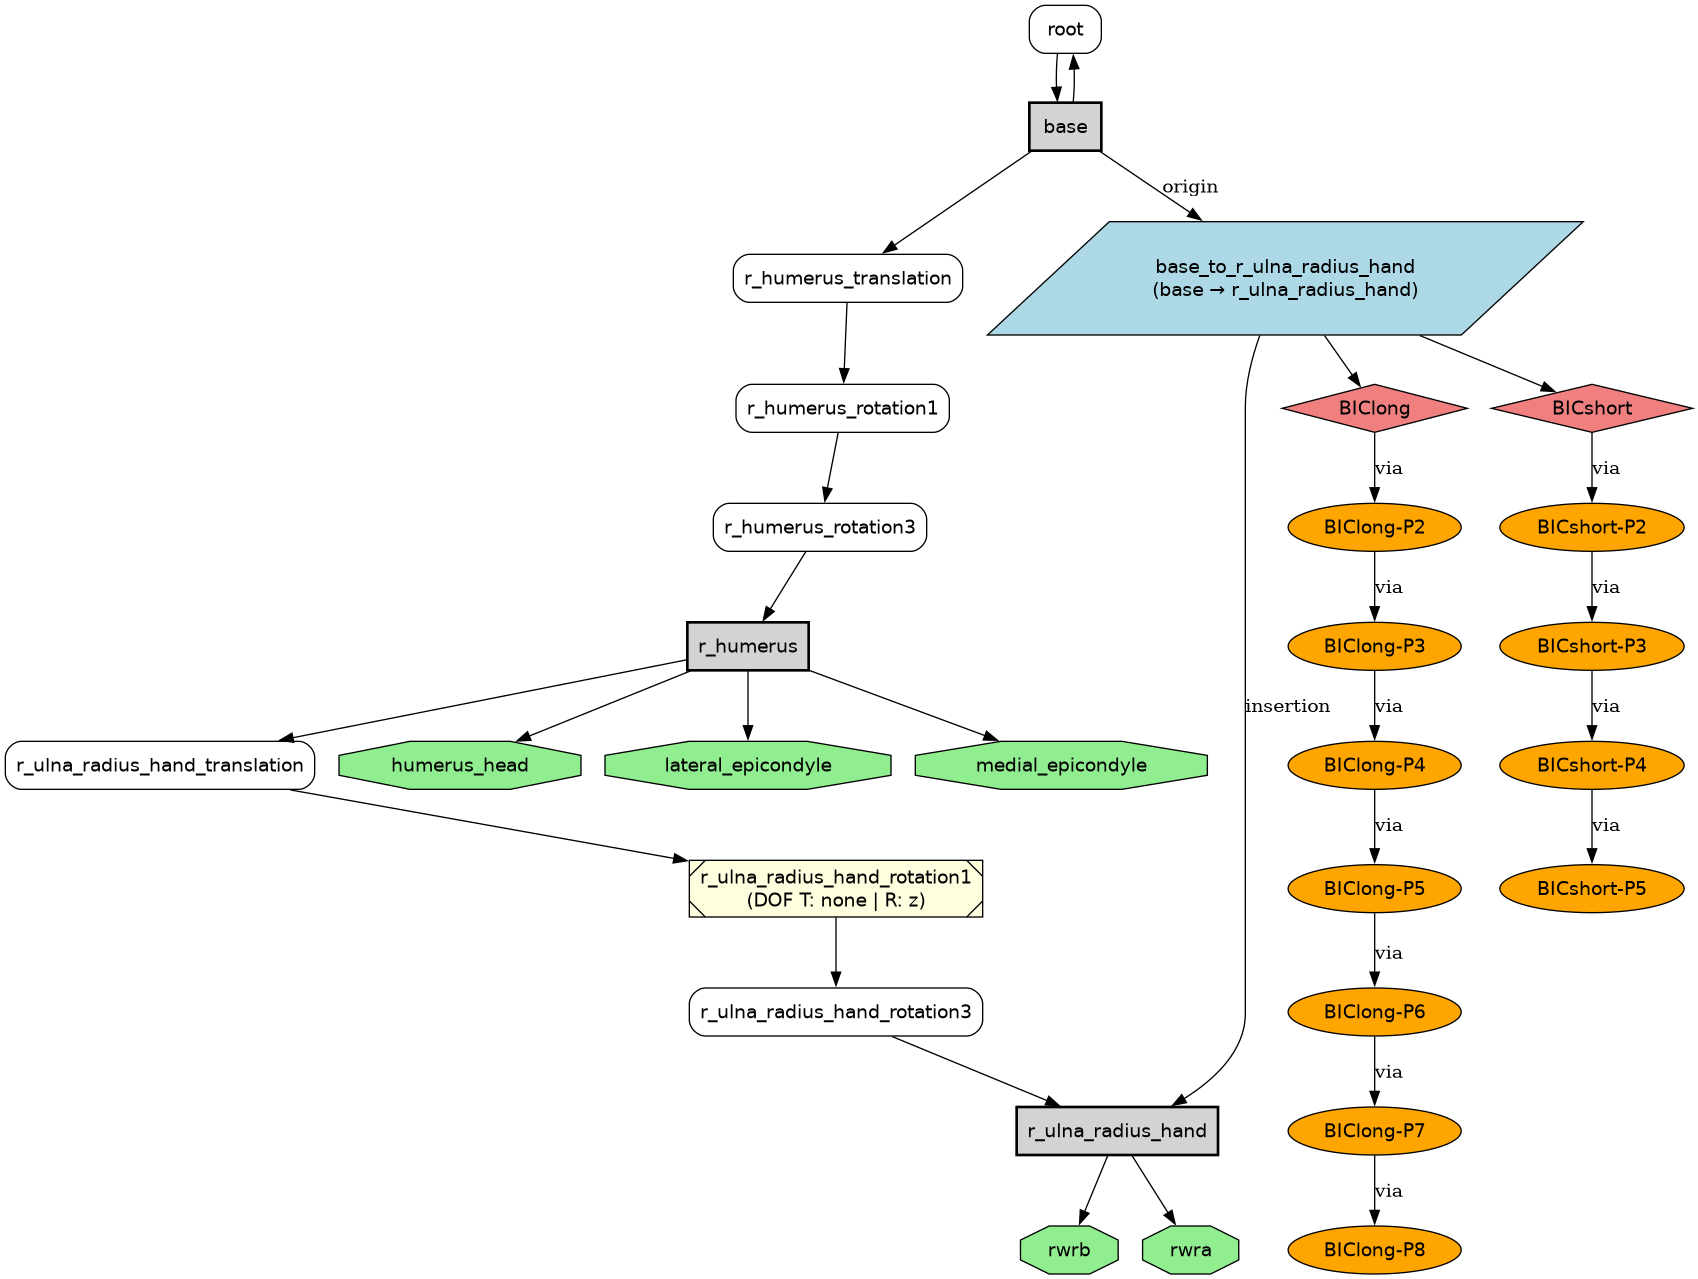
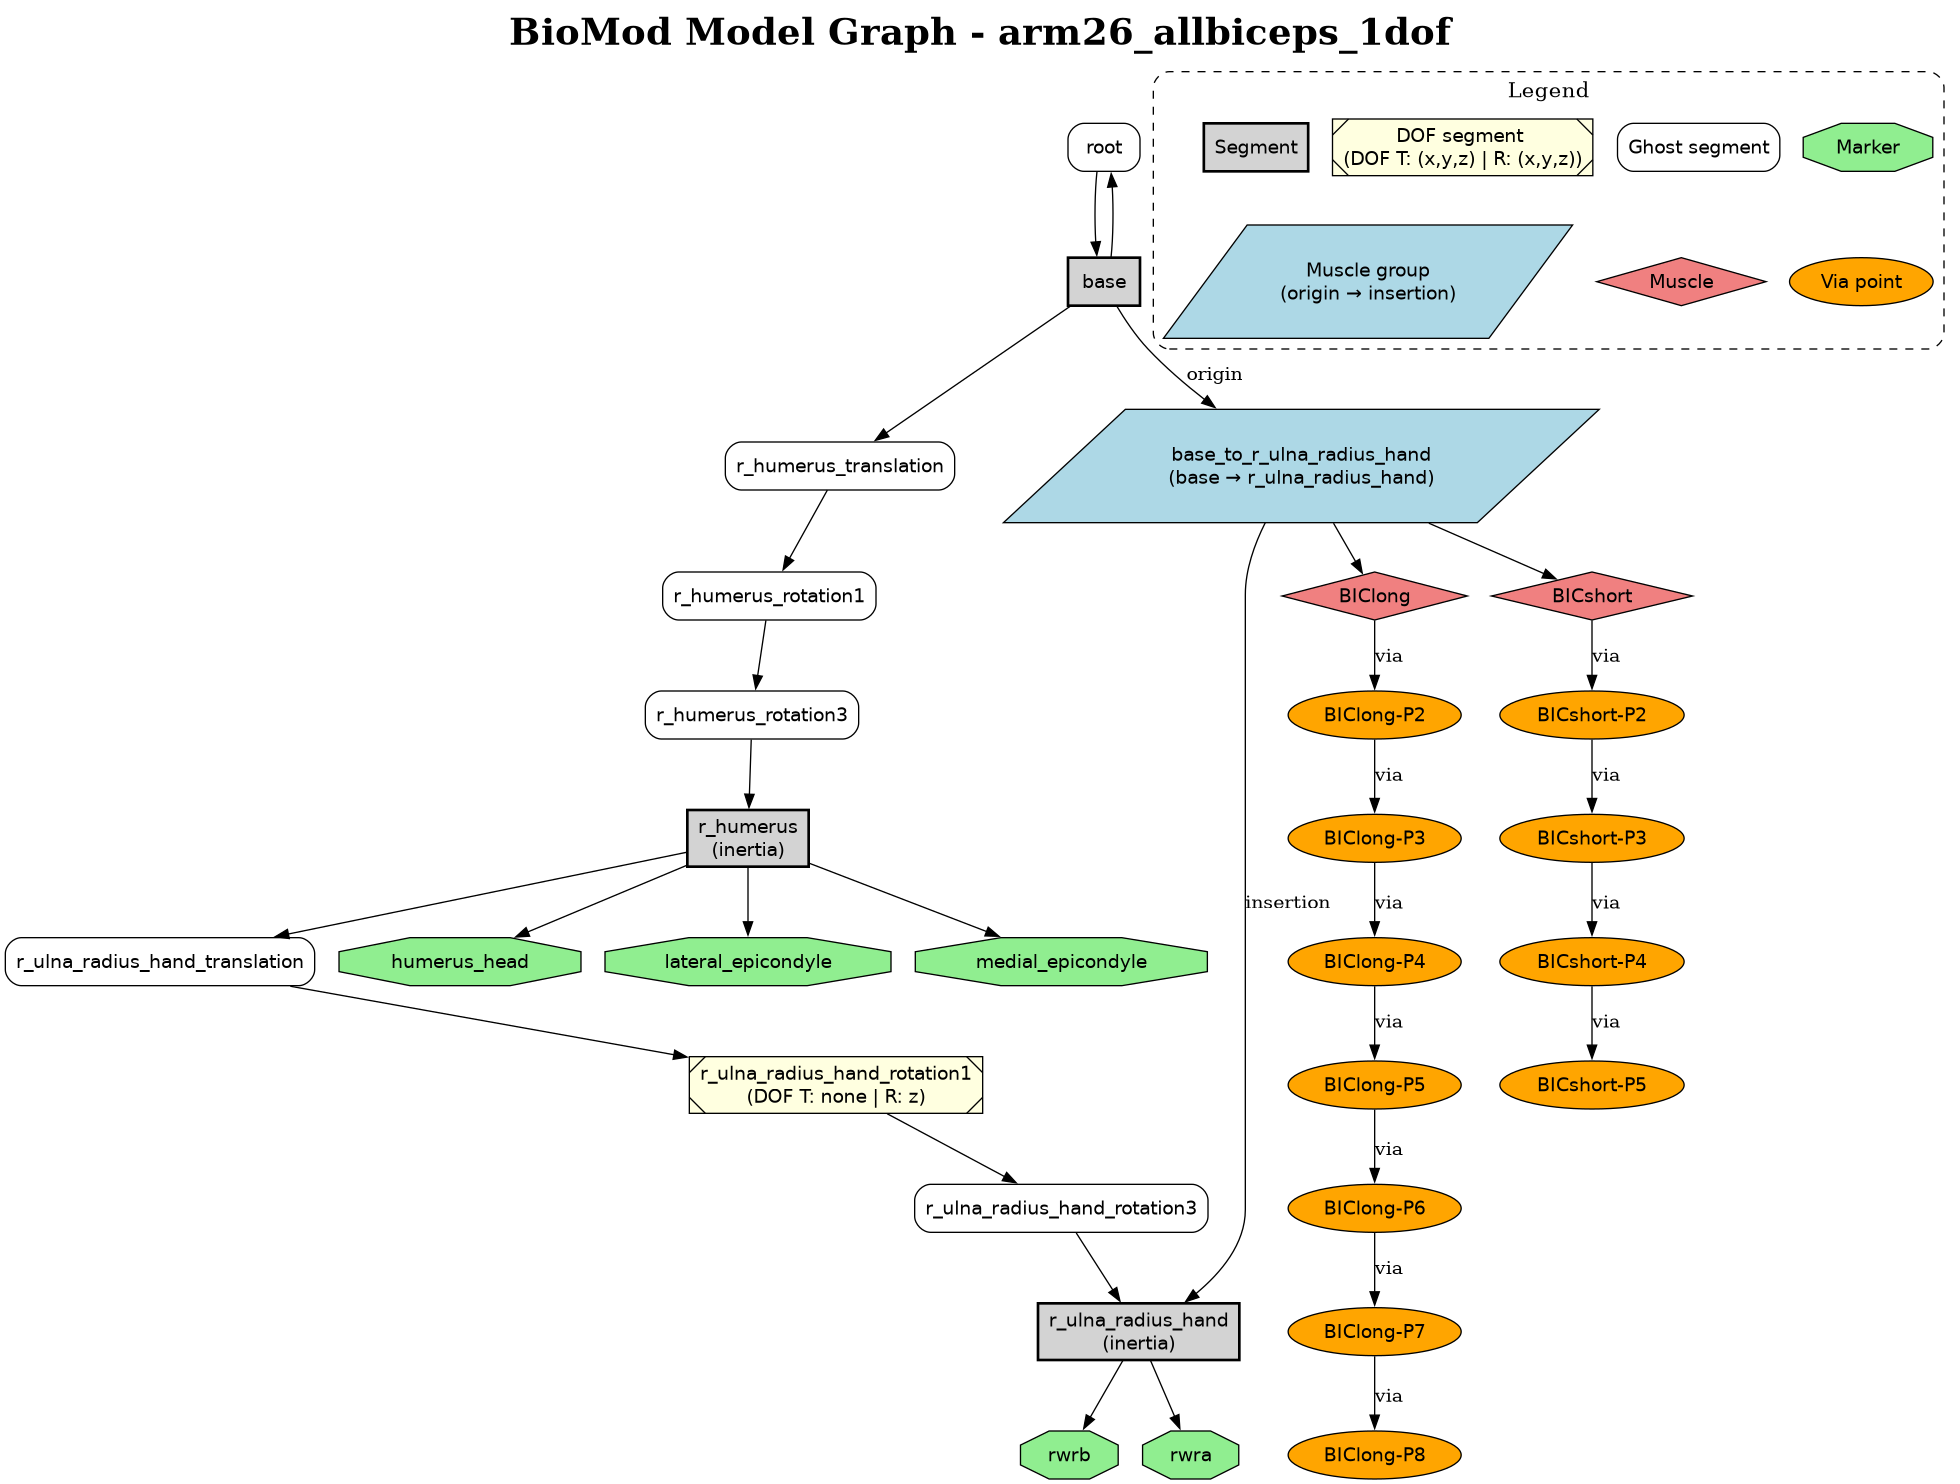
updates

Changed region(s): [[0.0, 0.0, 0.9988, 1.0], [0.3433, 0.3659, 0.5306, 0.4269]]

diff --git a/biobuddy/components/model_utils.py b/biobuddy/components/model_utils.py
@@ -450,6 +450,7 @@ class ModelUtils:
         include_dof_segments: bool = True,
         include_via_points: bool = True,
         include_markers: bool = True,
+        include_legend: bool = True,
     ) -> None:
         """
         Write a graphviz .dot file representing the biomechanical model structure
@@ -466,6 +467,8 @@ class ModelUtils:
             whether to include via points in the graph
         include_markers
             whether to include markers in the graph
+        include_legend
+            whether to include legend in the graph
         """
 
         def convert_dot_to_png(path_dot_file: Path | str) -> None:
@@ -495,6 +498,11 @@ class ModelUtils:
             f.write("  rankdir=TB;\n")
             f.write('  node [fontname="Helvetica"];\n\n')
 
+            # title
+            title = Path(out_path).stem
+            f.write('  labelloc="t";\n')
+            f.write(f'  label=<<B><FONT POINT-SIZE="28">BioMod Model Graph - {title}</FONT></B>>;\n\n')
+
             # -------- SEGMENTS --------
             # TODO : add specific box for segments with contact points
             f.write("  // Segments\n")
@@ -508,11 +516,15 @@ class ModelUtils:
                     true_segments.append(s.name)
                 elif (
                     s.inertia_parameters
-                    or s.markers
+                    or (s.markers and include_markers)
                     or s.name in self.muscle_group_origin_parent_names
                     or s.name in self.muscle_group_insertion_parent_names
                 ):
-                    f.write(f'  "{s.name}" [shape=box, style="filled,bold", fillcolor=lightgray];\n')
+                    label = s.name
+                    if s.inertia_parameters:
+                        label += r"\n(inertia)"
+
+                    f.write(f'  "{s.name}" [shape=box, style="filled,bold", fillcolor=lightgray, label="{label}"];\n')
                     true_segments.append(s.name)
 
                 elif include_ghost_segments:
@@ -553,7 +565,7 @@ class ModelUtils:
                     for marker in s.markers:
                         f.write(f'  "{s.name}" -> "{marker.name}";\n')
 
-            # # -------- MUSCLE GROUPS --------
+            # -------- MUSCLE GROUPS --------
             f.write("\n  // Muscle groups\n")
             for mg in self.muscle_groups:
                 origin = mg.origin_parent_name
@@ -567,7 +579,7 @@ class ModelUtils:
                 if insertion:
                     f.write(f'  "{mg.name}" -> "{insertion}" [label="insertion"];\n')
 
-            # # -------- MUSCLES --------
+            # -------- MUSCLES --------
             f.write("\n  // Muscles\n")
             for mg in self.muscle_groups:
                 for m_name in mg.muscles.keys():
@@ -575,12 +587,12 @@ class ModelUtils:
                     f.write(f'  "{mg.name}" -> "{m_name}";\n')
 
             if include_via_points:
-                # # -------- VIAPOINTS --------
+                # -------- VIAPOINTS --------
                 f.write("\n  // Via points\n")
                 for vp_name in self.via_point_names:
                     f.write(f'  "{vp_name}" [shape=ellipse, style=filled, fillcolor=orange];\n')
 
-                # # -------- MUSCLE --> VIAPOINT CHAINS --------
+                # -------- MUSCLE --> VIAPOINT CHAINS --------
                 f.write("\n  // Muscle paths\n")
 
                 for mg in self.muscle_groups:
@@ -593,6 +605,53 @@ class ModelUtils:
                         # other VP
                         for i in range(len(m.via_points) - 1):
                             f.write(f'  "{m.via_points[i].name}" -> "{m.via_points[i+1].name}" [label="via"];\n')
+
+            if include_legend:
+                # -------- LEGENDS --------
+                f.write("\n  // Legend\n")
+                keys = []
+                f.write(
+                    '  subgraph cluster_legend {\n    label="Legend";\n    fontsize=16;\n    style="rounded,dashed";'
+                )
+
+                f.write('\n    key_segment [label="Segment", shape=box, style="filled,bold", fillcolor=lightgray]')
+                keys.append("key_segment")
+
+                if include_dof_segments:
+                    f.write(
+                        '\n    key_segment_dof   [label="DOF segment \\n(DOF T: (x,y,z) | R: (x,y,z))", shape=box, style="filled,diagonals", fillcolor=lightyellow];'
+                    )
+                    keys.append("key_segment_dof")
+
+                if include_ghost_segments:
+                    f.write('\n    key_segment_ghost [label="Ghost segment", shape=box, style=rounded]')
+                    keys.append("key_segment_ghost")
+
+                if include_markers:
+                    f.write('\n    key_marker    [label="Marker", shape=octagon, style=filled, fillcolor=lightgreen];')
+                    keys.append("key_marker")
+
+                f.write(
+                    '\n    key_muscle_groups   [label="Muscle group\\n(origin → insertion)", shape=parallelogram, style=filled, fillcolor=lightblue];'
+                )
+                keys.append("key_muscle_groups")
+                nb_column = len(keys) - 1
+
+                f.write('\n    key_muscles   [label="Muscle", shape=diamond, style=filled, fillcolor=lightcoral];')
+                keys.append("key_muscles")
+                if include_via_points:
+                    f.write(
+                        '\n    key_via_point   [label="Via point", shape=ellipse, style=filled, fillcolor=orange]; '
+                    )
+                    keys.append("key_via_point")
+
+                # -----------------
+                f.write("\n    { rank=same; " + " ".join(keys[:nb_column]) + " }")
+                f.write("\n    { rank=same; " + " ".join(keys[nb_column:]) + " }")
+
+                f.write(f"\n    key_segment -> key_muscle_groups [style=invis];")
+
+                f.write("\n  }")
 
             f.write("\n}\n")
 

diff --git a/examples/create_graph_from_bioMod_file.py b/examples/create_graph_from_bioMod_file.py
@@ -30,6 +30,7 @@ def create_graph_from_biomod_file():
         include_dof_segments=True,
         include_via_points=True,
         include_markers=True,
+        include_legend=True,
     )
 
 

diff --git a/README.md b/README.md
@@ -340,6 +340,7 @@ model.write_graphviz(
     include_dof_segments=True,
     include_via_points=True,
     include_markers=True,
+    include_legend=True,
 )
 
 # Visualize the model as an animation
